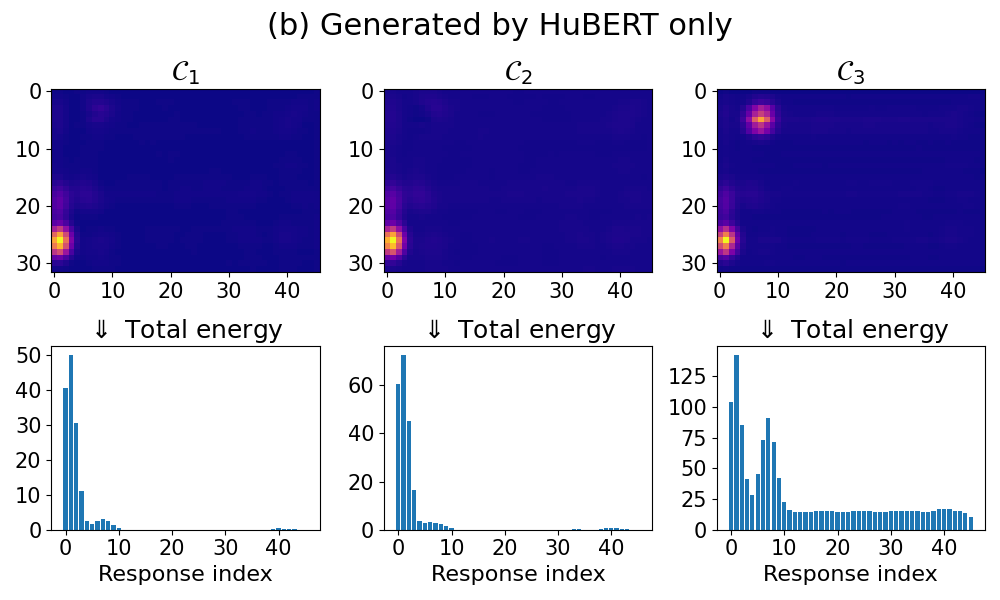
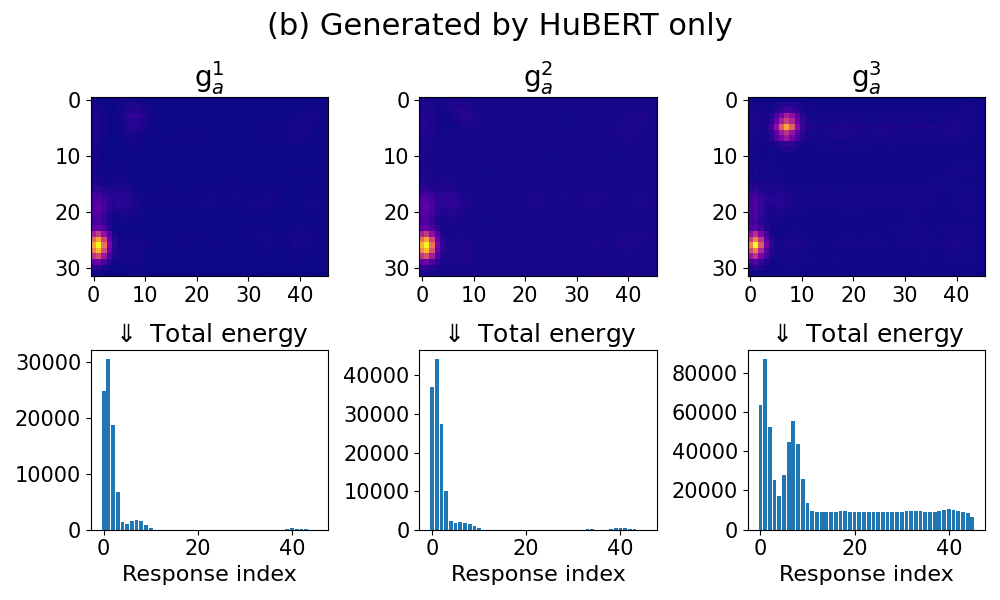
update codes

diff --git a/test.py b/test.py
@@ -149,7 +149,7 @@ if __name__ == '__main__':
     C.append(torch.squeeze(torch.load('model/c2-HuBERT.pt')))
     C.append(torch.squeeze(torch.load('model/c3-HuBERT.pt')))
     for i in range(len(C)):
-        C[i] = torch.mean(C[i], dim=0)      # mean over (?, 46, 32) --> (46, 32)
+        C[i] = torch.sum(C[i], dim=0)      # mean over (?, 46, 32) --> (46, 32)
         C[i] = C[i].t()
         logC.append(torch.log10(C[i]))
 
@@ -164,9 +164,9 @@ if __name__ == '__main__':
 
     # ----------- draw heatmap & bar graphs ---------------
     fig, ax = plt.subplots(2, 3, figsize=(10, 6))
-    ax[0][0].set_title(r'$\mathcal{C}_1$', fontsize=20)
-    ax[0][1].set_title(r'$\mathcal{C}_2$', fontsize=20)
-    ax[0][2].set_title(r'$\mathcal{C}_3$', fontsize=20)
+    ax[0][0].set_title(r'$\mathsf{g}^1_a$', fontsize=20)
+    ax[0][1].set_title(r'$\mathsf{g}^2_a$', fontsize=20)
+    ax[0][2].set_title(r'$\mathsf{g}^3_a$', fontsize=20)
 
     ax[1][0].set_title(r'$\Downarrow$ Total energy', fontsize=18)
     ax[1][1].set_title(r'$\Downarrow$ Total energy', fontsize=18)
@@ -185,7 +185,7 @@ if __name__ == '__main__':
 
     im_list = list()
     log_im = list()
-    col = 0   # 0 for HuBERT+Age+Gender; 1 for HuBERT-only
+    col = 1   # 0 for HuBERT+Age+Gender; 1 for HuBERT-only
     for j in range(0, 3):
         im = ax[0][j].imshow(C[col*3 + j], aspect='auto', cmap="plasma")
         im_list.append(im)

diff --git a/train.py b/train.py
@@ -382,12 +382,10 @@ def train_AdaptiveAttnSDM(args):
                                 apply_attention=apply_attention,
                                 age_gender=age_gender)
     device_ids = [0, ]
-    loss_func = nn.CrossEntropyLoss()
     model = nn.DataParallel(my_model, device_ids=device_ids).to(device)
     loss_func.to(device)
     # optimizer = optim.RMSprop(model.parameters(), lr=LEARNING_RATE, momentum=0.9, weight_decay=5e-4)
     optimizer = optim.RMSprop(model.parameters(), lr=args.learning_rate)
-
     ds = utils.HuBERTEmbedDataset(device=device, selected_task=args.task)
     summary(my_model, (args.batch_size, 1, 46, 1024),
             age=torch.ones(args.batch_size, 1),
@@ -404,8 +402,13 @@ def train_AdaptiveAttnSDM(args):
     training_loss = list()
     testing_accuracy = list()
     testing_loss = list()
-    # use classweight in the case don't use undersampling method
+
+    # use classweight undersampling method
     class_weights, class_counts = ds.get_class_weights(train_ds.indices)
+    loss_func = nn.CrossEntropyLoss(weight=class_weights)
+
+
+
     best_loss = sys.float_info.max
     for epoch in range(args.epoch):
         print(f"\nEpoch {epoch+1}/{args.epoch} @ lr={optimizer.param_groups[0]['lr']} ------")

diff --git a/utils.py b/utils.py
@@ -188,7 +188,7 @@ class HuBERTEmbedDataset(Dataset):
             selected_rows = self.dataset
 
         labels_unique, counts = np.unique(selected_rows['sss'], return_counts=True)
-        class_weights = [counts[c]/np.sum(counts) for c in range(len(counts))]
+        class_weights = [1-counts[c]/np.sum(counts) for c in range(len(counts))]
 
         return torch.FloatTensor(class_weights), counts
 
@@ -459,9 +459,8 @@ def plotting_comparing_curves():
     print('Test accuracy (HuBERT + AG)',np.max(data[1]['test_acc']))
     print('Test accuracy (HuBERT)',np.max(data[3]['test_acc']))
     print('Test accuracy (GeMAPS)',np.max(data[5]['test_acc']))
-
-
 ''' ----------------------- '''
+
 # plotting_comparing_curves()
 # plotting_training_curve(
 #         in_histfile = 'image/json/train-noattention-hist-lr-0.0001-GeMAPS-nogender.json',
